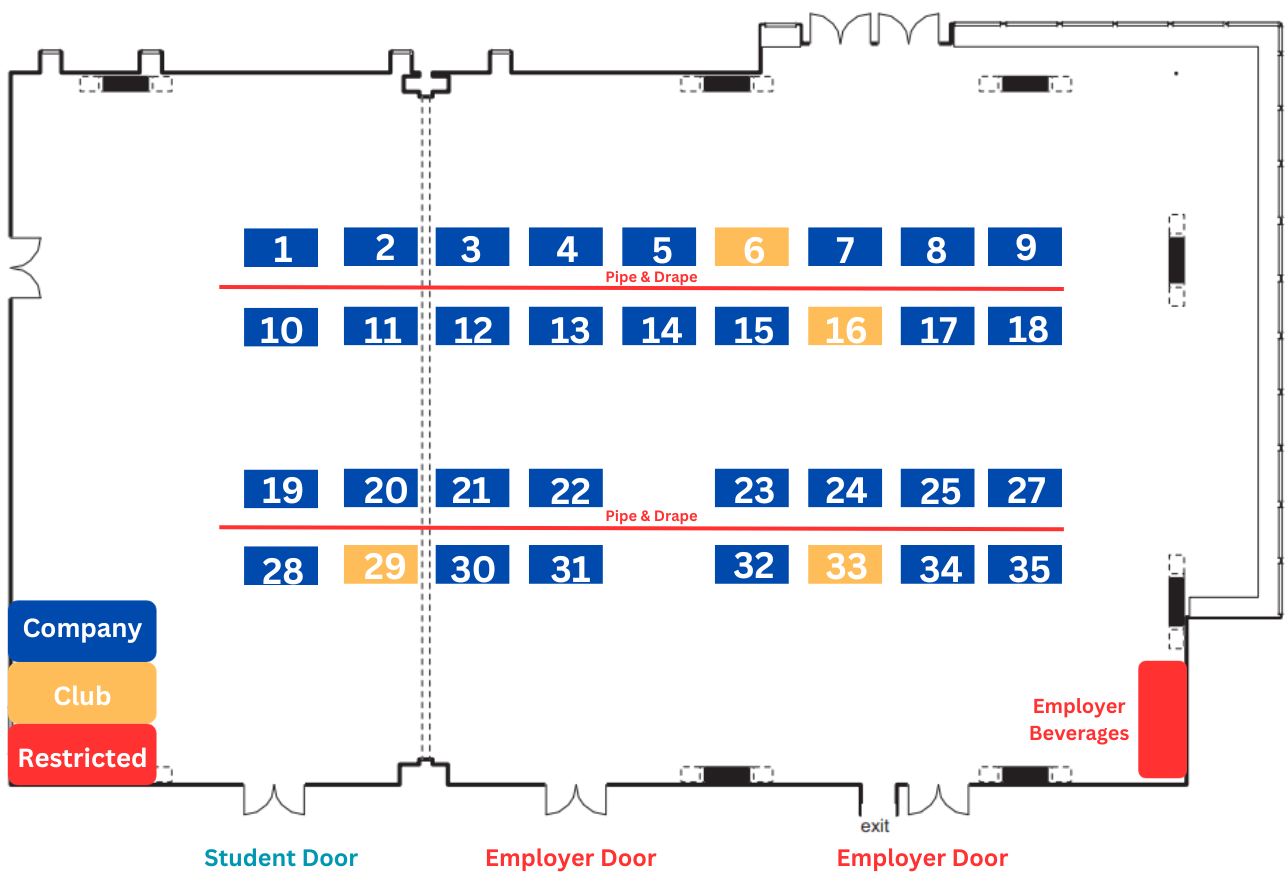
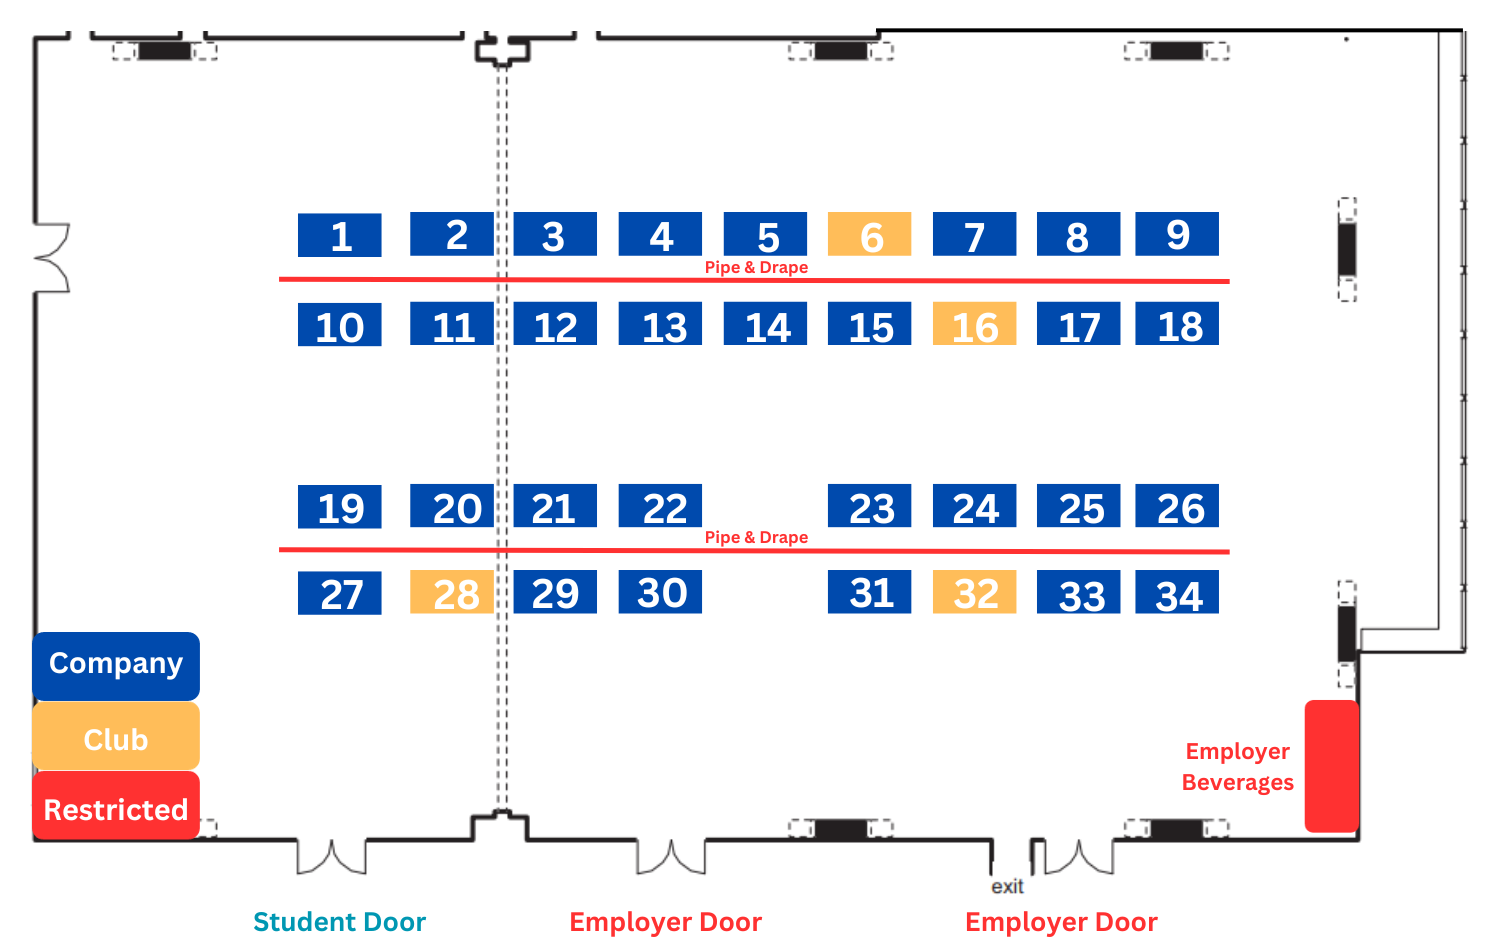
tcf day of edits (#596)

Changed region(s): [[0.0, 0.0, 1.0, 1.0], [0.8709, 0.2121, 0.9331, 0.3333]]

diff --git a/themes/hugo-bootstrap-5/layouts/tcf/tcf-day-of.html b/themes/hugo-bootstrap-5/layouts/tcf/tcf-day-of.html
@@ -178,18 +178,14 @@
         <p>
           The closest drop-off area to the Great Hall would be in by the
           University Blvd Parking lot or anywhere in the cul-de-sac area closest
-          to Brown's Crafthouse and the Nest.
+          to Brown's Crafthouse and the Nest. If you require to drop off
+          materials before parking, we suggest dropping them off here and
+          contacting us before hand. Please check your email for our phone
+          details. We will have a team of volunteers near all doors for much of
+          the time between 8:50AM and 10:00AM.
         </p>
-        <p>
-          If you require to drop off materials before parking, we suggest
-          dropping them off here and contacting us before hand.
-        </p>
-        <p>Please check your email for our phone details.</p>
+        <p>Below is a screenshot of the fastest drop-off area.</p>
         <img src="/files/tcf2024/TCF-2024-Drop-Off-Area.png" />
-        <p>
-          These details are subject to change depending on the construction
-          activity on campus and will be updated closer to the date.
-        </p>
       </div>
       <hr />
 
@@ -221,7 +217,7 @@
           the University Blvd cul-de-sac on the second floor.
         </p>
         <p>
-          We will have signage on the day along with signage on the day to
+          We will have signage on the day along with volunteers on the day to
           direct you to the correct location.
         </p>
         <p>
@@ -269,7 +265,10 @@
             Should you require additional outlets, we have a limited supply of
             power bars that we can attach to the venue for free.
           </li>
-          <li>We have been told that the estimated amperage is 20.</li>
+          <li>
+            We have been told that the estimated amperage is 12A and the
+            estimated voltage is 120V.
+          </li>
           <li>
             Wifi should be accessible through UBC Public Wifi. See the Internet
             Access section below for instructions.
@@ -301,8 +300,7 @@
           Booth Assignments
         </h2>
         <p style="text-align: center;">
-          The following booth assignments are subject to change. Check back on
-          the day for the final assignments
+          Below are the booth assignments for the event.
         </p>
         <div class="grid-container">
           <div class="row pt-4">
@@ -310,7 +308,7 @@
             {{ range .Site.Pages }}
               {{ if (and (eq .Params.layout "tcf-company-2024") (.Params.imageLink)) }}
                 {{ $.Scratch.Add "counter" 1 }}
-                <div class="col-lg-3 col-sm-12 col-md-6 mt-3">
+                <div class="col-lg-2 col-sm-12 col-md-6 mt-3">
                   <div class="card w-100 mt-3 h-100">
                     <div
                       class="d-flex flex-column justify-content-center"
@@ -421,8 +419,7 @@
           </li>
           <li>
             Employers will be provided with a ticket on the day of the event
-            detailing the number of meals they are entitled to. However, we will
-            operate on an honour based system.
+            detailing the number of meals they are entitled to.
           </li>
           <li>
             Should the purchased food be insufficient in any way, please contact
@@ -448,6 +445,10 @@
 
       <div id="catering-schedule">
         <h2>Catering Schedule</h2>
+        <p>
+          The below schedule is subject to change depending on the catering
+          staff.
+        </p>
         <table
           style="width: 100%; margin: 0 auto; border-collapse: collapse; border: 2px solid #333;">
           <tr style="background-color: #333; color: #fff;">

diff --git a/content/tcf/deltacontrols.md b/content/tcf/deltacontrols.md
@@ -12,5 +12,5 @@ majors: Computer Science, Computer Engineering, Electrical Engineering, Mechanic
 workAuth: Canadian Citizen/Permanent Resident
 degreeLevels: Current Students in an Undergraduate Program, Current Students in a Masters Program, Current Students in a Phd Program, Graduated with an Undergraduate Degree, Graduated with a Graduate Degree (Masters or Phd)
 positionTypes: Co-op Student (4 months), Co-op Student (8+ months), Recent Graduate, Full-time
-boothNumber: 34
+boothNumber: 33
 ---

diff --git a/content/tcf/skyboxlabs.md b/content/tcf/skyboxlabs.md
@@ -11,5 +11,5 @@ majors: Computer Science, Physics, Computer Engineering
 workAuth: Canadian Citizen/Permanent Resident, International Student, US Citizen, All
 degreeLevels: Current Students in an Undergraduate Program, Current Students in a Masters Program, Graduated with an Undergraduate Degree
 positionTypes: Co-op Student (8+ months), Recent Graduate, Full-time
-boothNumber: 28
+boothNumber: 27
 ---

diff --git a/content/tcf/geocomply.md b/content/tcf/geocomply.md
@@ -14,5 +14,5 @@ majors:
 workAuth: All
 degreeLevels: Current Students in an Undergraduate Program, Current Students in a Masters Program, Current Students in a Phd Program, Graduated with an Undergraduate Degree, Graduated with a Graduate Degree (Masters or Phd)
 positionTypes: Internships, Co-op Student (4 months), Co-op Student (8+ months), Recent Graduate
-boothNumber: 32
+boothNumber: 31
 ---

diff --git a/content/tcf/fortinet.md b/content/tcf/fortinet.md
@@ -11,5 +11,5 @@ majors: Computer Science, Electrical Engineering
 workAuth: Canadian Citizen/Permanent Resident
 degreeLevels: Current Students in a Masters Program, Current Students in a Phd Program, Graduated with an Undergraduate Degree, Graduated with a Graduate Degree (Masters or Phd)
 positionTypes: Full-time
-boothNumber: 27
+boothNumber: 26
 ---

diff --git a/content/tcf/electronicarts.md b/content/tcf/electronicarts.md
@@ -11,5 +11,5 @@ majors: Computer Science, Statistics, Business & Computer Science, Data Science,
 workAuth: Canadian Citizen/Permanent Resident, International Student
 degreeLevels: Current Students in an Undergraduate Program
 positionTypes: Co-op Student (4 months), Co-op Student (8+ months), Full-time
-boothNumber: 35
+boothNumber: 34
 ---

diff --git a/content/tcf/konradgroup.md b/content/tcf/konradgroup.md
@@ -11,5 +11,5 @@ majors: Computer Science, Business & Computer Science, Computer Engineering, Ele
 workAuth: Canadian Citizen/Permanent Resident
 degreeLevels: Current Students in an Undergraduate Program
 positionTypes: Internships, Co-op Student (4 months), Co-op Student (8+ months), Full-time
-boothNumber: 31
+boothNumber: 30
 ---

diff --git a/content/tcf/brainstation.md b/content/tcf/brainstation.md
@@ -11,5 +11,5 @@ majors: Business & Computer Science
 workAuth: Canadian Citizen/Permanent Resident
 degreeLevels: Current Students in an Undergraduate Program, Graduated with an Undergraduate Degree
 positionTypes: Internships, Co-op Student (4 months), Recent Graduate, Full-time
-boothNumber: 30
+boothNumber: 29
 ---
